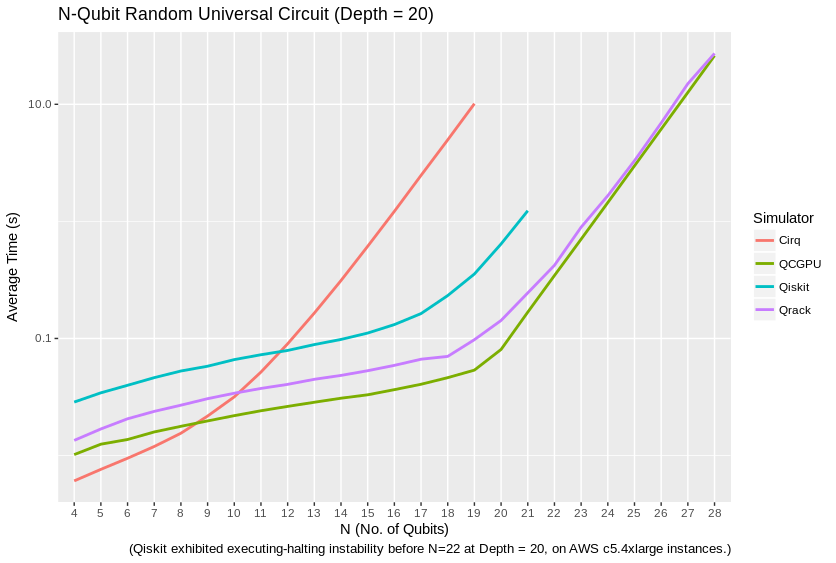
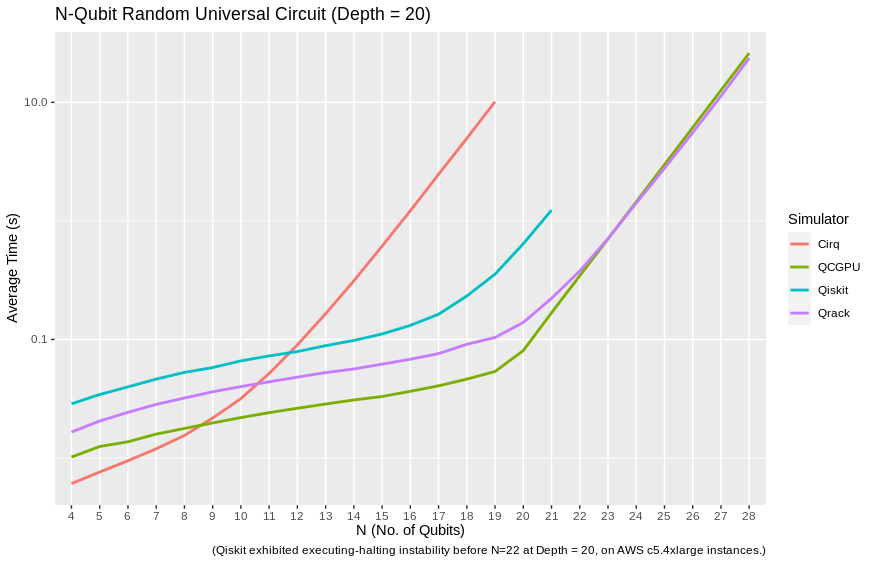
Updating benchmarks

diff --git a/docs/performance.rst b/docs/performance.rst
@@ -74,11 +74,11 @@ Disclaimers
 Method
 ******
 
-This performance document is meant to be a simple, to-the-point, and preliminary digest of these results. We plan to submit a formal academic report for peer review of these results, in full detail, in February of 2020. These were prepared with the generous financial support of the Unitary Fund. However, we offer that our benchmark code is public, largely self-explanatory, and easily reproducible, while we prepare that report. Hence, we release these partial preliminary results now.
+This performance document is meant to be a simple, to-the-point, and preliminary digest of these results. We plan to submit a formal academic report for peer review of these results, in full detail, as soon as we collect sufficient feedback on the preprint. (The originally planned date of submission was in February of 2020, but it seems that COVID-19 has hindered our ability to seek preliminary feedback.) These results were prepared with the generous financial support of the Unitary Fund. However, we offer that our benchmark code is public, largely self-explanatory, and easily reproducible, while we prepare that report. Hence, we release these partial preliminary results now.
 
 100 timed trials of single and parallel gates were run for each qubit count between 4 and 28 qubits. Three tests were performed: the quantum Fourier transform, ("QFT"), random circuits constructed from a universal gate set, and an idealized approximation of Google's Sycamore chip benchmark, as per [Sycamore]_. The benchmarking code is available at `https://github.com/vm6502q/simulator-benchmarks <https://github.com/vm6502q/simulator-benchmarks>`_.
 
-CPU and GPU benchmarks were run on two respective systems that could represent realistic use cases for each engine type. Among AWS virtual machine instances, we sought to find those systems with the lowest possible cost to run the benchmarks for their respective execution times, at or below for the 28 qubit mark. An AWS g3s.xlarge running Ubuntu Server 18.04LTS was selected for GPU benchmarks. An AWS c5.4xlarge running Ubuntu Server 18.04LTS was selected for CPU benchmarks, including FFTW3 for comparison on the QFT test. Benchmarks were collected from December 27, 2019 through January 24, 2020. These results were combined with single gate, N-width gate and Grover's search benchmarks for Qrack, collected overnight from December 19th, 2018 into the morning of December 20th. (The potential difference since December 2018 in these particular Qrack tests reused from then should be insignificant. We took care to try to report fair tests, within cost limitations, but please let us know if you find anything that appears misrepresentative.)
+CPU and GPU benchmarks were run on two respective systems that could represent realistic use cases for each engine type. Among AWS virtual machine instances, we sought to find those systems with the lowest possible cost to run the benchmarks for their respective execution times, at or below for the 28 qubit mark. An AWS g3s.xlarge running Ubuntu Server 18.04LTS was selected for GPU benchmarks. An AWS c5.4xlarge running Ubuntu Server 18.04LTS was selected for CPU benchmarks, including FFTW3 for comparison on the QFT test. Benchmarks were collected from December 27, 2019 through January 24, 2020. Given delays in soliciting peer opinion, while development of Qrack continued, the Qrack benchmarks were updated on April 15, 2020. These results were combined with single gate, N-width gate and Grover's search benchmarks for Qrack, collected overnight from December 19th, 2018 into the morning of December 20th. (The potential difference since December 2018 in these particular Qrack tests reused from then should be insignificant. We took care to try to report fair tests, within cost limitations, but please let us know if you find anything that appears misrepresentative.)
 
 The average time of each set of 100 was recorded and graphed. Grover's search to invert a black box subroutine, or "oracle," was similarly implemented for trials between 5 and 20 qubits, for QEngineOCL with and without QUnit and QFusion layers. Grover's algorithm was iterated an optimal number of times, vs. qubit count, to maximize probability on a half cycle of the algorithm's period, being :math:`floor\left[\frac{\pi}{4asin^2\left(1/\sqrt{2^N}\right)}\right]` iterations for :math:`N` qubits.
 
@@ -121,9 +121,11 @@ The "quantum" (or "discrete") Fourier transform (QFT/DFT) is a realistic and imp
 
 .. image:: performance/qft.png
 
-Recall that QCGPU and Qrack are GPU-implementations run on AWS g3s.xlarge instances, whereas all other candidates are run on AWS c5.4xlarge instances. Under these considerations, by the 28 qubit level, Qrack out-performs all other candidates except FFTW3. (Recall, also, that Qrack uses a representatively "hard" initialization on this test, as described above, whereas permutation basis eigenstate inputs, for example, are much more quickly executed.) Though we are comparing CPU to GPU, CPU-based FFTW3 is clearly the best suited for low numbers of qubits, in general.
+.. image:: performance/qft_optimization.png
 
-Similarly, on random universal circuits, defined above and in the benchmark repository, Qrack and QCGPU are closely matched (for cost) on AWS systems.
+Recall that QCGPU and Qrack are GPU-implementations run on AWS g3s.xlarge instances, whereas all other candidates are run on AWS c5.4xlarge instances. Under these considerations, by the 28 qubit level, Qrack out-performs all other candidates except FFTW3. (Recall, also, that Qrack uses a representatively "hard" initialization on this test, as described above, whereas permutation basis eigenstate inputs, for example, are much more quickly executed.) Though we are comparing CPU to GPU, CPU-based FFTW3 is clearly the best suited for low numbers of qubits, in general. However, Qrack is the only candidate tested which exhibits even better special case performance on the QFT, as for random permutation basis eigenstate initialization, or initialization via permutation basis eigenstates with random "H" gates applied, before QFT.
+
+Similarly, on random universal circuits, defined above and in the benchmark repository, Qrack leads over all other candidates considered by the 24 qubit mark and up. GPU-based QCGPU leads on the test system for 23 qubits and below, and CPU-based Cirq leads for 8 qubits and fewer.
 
 .. image:: performance/random_universal.png
 
@@ -131,21 +133,18 @@ Qrack's QUnit makes a fundamental improvement on an idealization of the Sycamore
 
 .. image:: performance/sycamore.png
 
-QUnit represents its state vector in terms of decomposed subsystems, when possible and efficient. On user and internal probability checks, QUnit will attempt to separate the representations of independent subsystems by Schmidt decomposition. Further, Qrack will avoid applying phase effects that make no difference to the expectation values of any Hermitian operators, (no difference to "physical observables,") when optimization can be achieved this way. For each bit whose representation is separated this way, we recover a factor of close to or exactly 1/2 the subsystem RAM and gate execution time. Under the domain constraints, QUnit outperforms all other simulators analyzed.
 
 Discussion
 **********
 
-Up to a consistent deviation at low qubit counts, speed and RAM usage for Schrödinger method "QEngine" types is well predicted by theoretical complexity considerations of the gates, up to about a factor of 2 on heap usage for duplication of the state vector, with additional 1/2 the size of state vector allocated by QEngineOCL for an auxiliary normalization buffer. For the additional overhead between Qrack's optimized QUnit and QCGPU in the comparative benchmarks, the difference might come down to Qrack's support for a more general API and set of compatible systems.
+Up to a consistent deviation at low qubit counts, speed and RAM usage for Schrödinger method "QEngine" types is well predicted by theoretical complexity considerations of the gates, up to about a factor of 2 on heap usage for duplication of the state vector, with additional 1/2 the size of state vector allocated by QEngineOCL for an auxiliary normalization buffer.
 
-Qrack is written for scalable work distribution in the OpenCL kernels. QEngineOCL will distribute work among an arbitrarily small number of processing elements and max work item size, smaller than state vector size. Max work item size is a device-specific hardware parameter limiting how many work items may be dispatched in an OpenCL kernel call. QEngineOCL can distribute large numbers of probability amplitude transformations to small numbers of work items, incurring additional looping overhead, whereas QCGPU is written to dispatch one work item to one processing element. QCGPU requires a large enough hardware max work item size to add higher numbers of qubits. Whereas QCGPU might not be, Qrack is theoretically compatible with OpenCL devices with smaller maximum work item counts, such as CPUs like the ARM7, on which Qrack has been regularly unit tested.
-
-Qrack gives the option to normalize its state vector while flooring noise-level amplitudes at on-the-fly opportunities, to optimize while correcting for float rounding error. QEngineOCL was designed to support access by separate QEngineOCL instances in different threads to shared OpenCL devices, as well as optional out-of-order OpenCL queue execution, when available. QEngineOCL can also dispatch a queue of gates completely asynchronously, without blocking the main execution thread. Runtime options and design features to support a broad range of platforms do add to Qrack's execution overhead, but these make Qrack the best all-around quantum computer simulator for personal and heterogeneous hardware.
+Qrack::QUnit succeeds as a novel and fundamentally improved quantum simulation algorithm, over the naive Schrödinger algorithm. Primarily, QUnit does this by representing its state vector in terms of decomposed subsystems, as well as buffering and commuting H gates and singly-controlled gates. On user and internal probability checks, QUnit will attempt to separate the representations of independent subsystems by Schmidt decomposition. Further, Qrack will avoid applying phase effects that make no difference to the expectation values of any Hermitian operators, (no difference to "physical observables"). For each bit whose representation is separated this way, we recover a factor of close to or exactly 1/2 the subsystem RAM and gate execution time.
 
 Further Work
 ************
 
-A formalized report of the above and additional benchmark results, in much greater detail and specificity, is planned to be submitted for publication in February, 2020, thanks to the generous support of the Unitary Fund.
+A formal report of the above and additional benchmark results, in much greater detail and specificity, is planned to be submitted for publication as soon as sufficient preliminary peer opinion can be collected on the preprint, in early to mid 2020, thanks to the generous support of the Unitary Fund.
 
 Qrack previously contained two experimental multiprocessor types, "QEngineOCLMulti" based on the algorithms developed in Intel's [QHiPSTER]_, and the simpler QUnitMulti type, which dispatches different separable subsystems to different processors. These failed to outperform the single processor QEngineOCL. However, as Qrack has added optional support as a simulator for ProjectQ, we have effectively gained access to the quantum network simulator "SimulaQron" by SoftwareQuTech. At least one Qrack user is experimenting with scaling deployments of containers loaded with Qrack, ProjectQ, and SimulaQron as an effective solution for multiprocessor and cluster operations, and the Qrack team is looking at this and related approaches for this purpose. An asynchronous quantum P2P model, for effective multiprocessor support, should hopefully reduce inter-device communication overhead bottlenecks.
 
@@ -156,7 +155,7 @@ We will maintain systematic comparisons to published benchmarks of quantum compu
 Conclusion
 **********
 
-Per [Pednault2017]_, and many other attendant and synergistic optimizations engineered specifically in Qrack's QUnit, explicitly separated subsystems of qubits in QUnit have a significant RAM and speed edge in many cases over the "Schrödinger algorithm" of most popular quantum computer simulators. Qrack gives very efficient performance on a single node past 32 qubits, up to the limit of maximal entanglement.
+Per [Pednault2017]_, and many other attendant and synergistic optimizations engineered specifically in Qrack's QUnit, explicitly separated subsystems of qubits in QUnit have a significant RAM and speed edge in many cases over the Schrödinger algorithm of most popular quantum computer simulators. Qrack gives very efficient performance on a single node past 32 qubits, up to the limit of maximal entanglement.
 
 Citations
 *********
